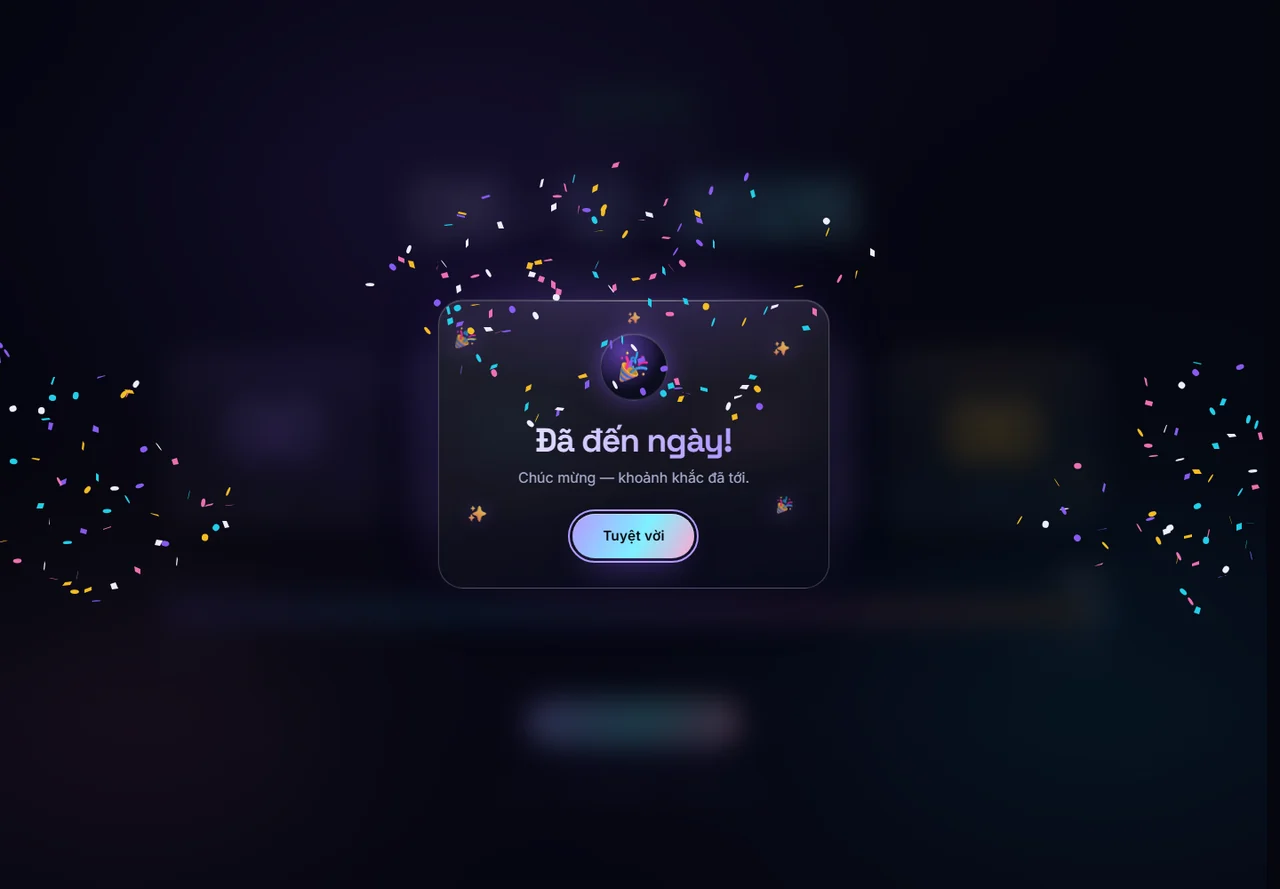
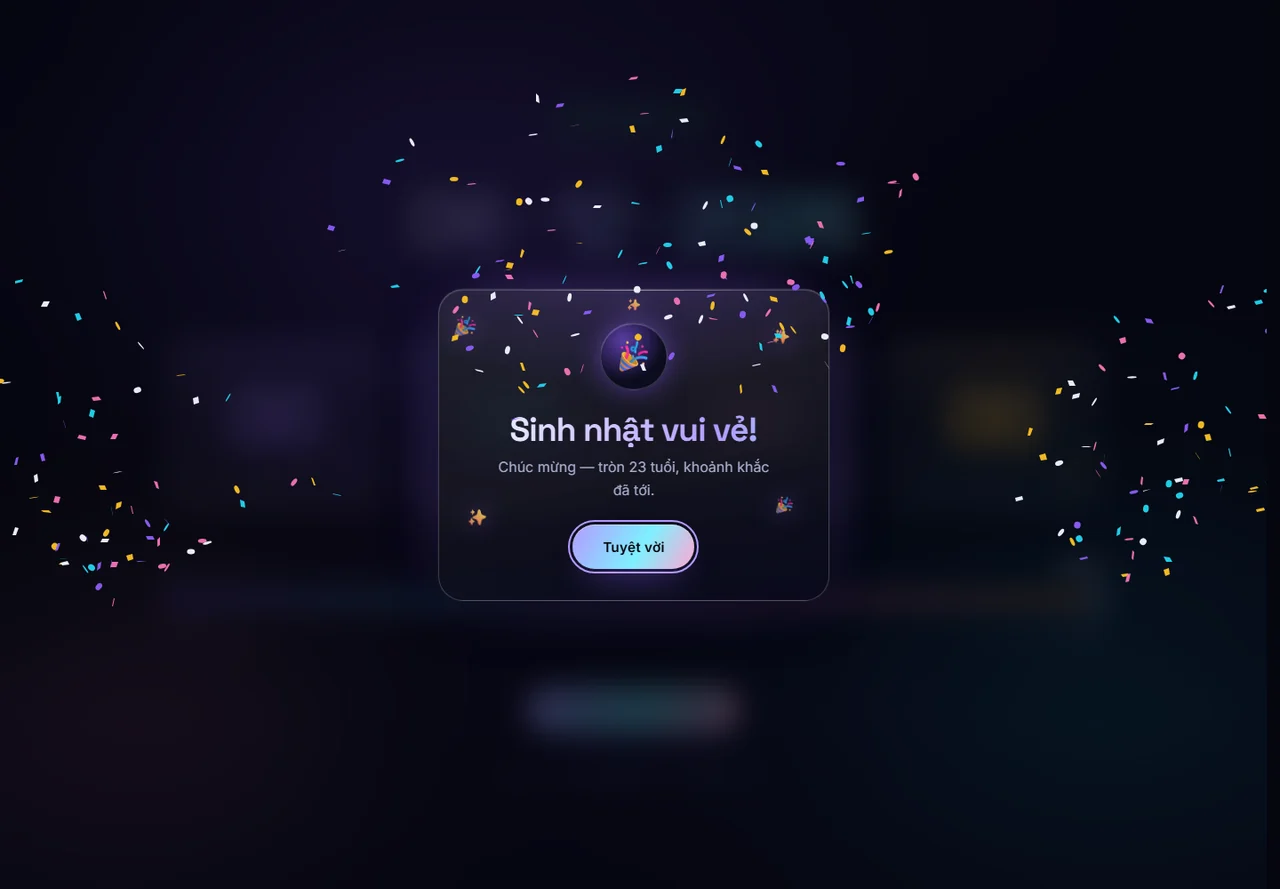
feat: keep birthday copy in the aurora redesign
- hero eyebrow: Đếm ngược sinh nhật; subtitle 06/12/2003 → 06/12/2026 · Tuổi 23
- expired badge and celebration dialog say happy birthday, 23 years old
- page title, description and OG tags updated for the birthday page
- lib exports BIRTH_ISO, BIRTH_LABEL, TARGET_SLASH_LABEL, BIRTHDAY_AGE (+tests, 27 total)

diff --git a/src/App.jsx b/src/App.jsx
@@ -4,7 +4,14 @@ import { Celebration } from './components/Celebration.jsx';
 import { CountdownGrid } from './components/CountdownGrid.jsx';
 import { ProgressRail } from './components/ProgressRail.jsx';
 import { useCountdown } from './hooks/useCountdown.js';
-import { TARGET_LABEL, TARGET_MS, formatRemaining } from './lib/countdown.js';
+import {
+  BIRTHDAY_AGE,
+  BIRTH_LABEL,
+  TARGET_LABEL,
+  TARGET_MS,
+  TARGET_SLASH_LABEL,
+  formatRemaining,
+} from './lib/countdown.js';
 import './App.css';
 
 export default function App() {
@@ -19,7 +26,7 @@ export default function App() {
   }, [isExpired]);
 
   const state = isExpired ? 'expired' : 'running';
-  const statusText = isExpired ? 'Đã đến ngày' : 'Đang đếm ngược';
+  const statusText = isExpired ? 'Sinh nhật vui vẻ' : 'Đang đếm ngược';
 
   return (
     <div className="app">
@@ -32,18 +39,20 @@ export default function App() {
             {statusText}
           </p>
 
-          <p className="hero__eyebrow">Đếm ngược đến</p>
+          <p className="hero__eyebrow">Đếm ngược sinh nhật</p>
 
           <h1 className="hero__title">{TARGET_LABEL}</h1>
 
           <p className="hero__sub">
             {isExpired
-              ? 'Khoảnh khắc đã tới — cảm ơn bạn đã đồng hành từng giây.'
-              : 'Từng giây trôi qua là một bước gần hơn tới khoảnh khắc ấy.'}
+              ? `Chúc mừng sinh nhật! Hôm nay tròn ${BIRTHDAY_AGE} tuổi.`
+              : `${BIRTH_LABEL} → ${TARGET_SLASH_LABEL} · Tuổi ${BIRTHDAY_AGE}`}
           </p>
 
           <p className="sr-only" role="status" aria-live="off">
-            {isExpired ? 'Đã đến ngày 06 tháng 12 năm 2026.' : `Còn lại ${formatRemaining(remaining)}.`}
+            {isExpired
+              ? `Đã đến ngày 06 tháng 12 năm 2026 — sinh nhật lần thứ ${BIRTHDAY_AGE}.`
+              : `Còn lại ${formatRemaining(remaining)}.`}
           </p>
         </header>
 

diff --git a/src/lib/countdown.test.js b/src/lib/countdown.test.js
@@ -17,9 +17,13 @@ import assert from 'node:assert/strict';
 import {
   TARGET_ISO,
   CAMPAIGN_START_ISO,
+  BIRTH_ISO,
   TARGET_MS,
   CAMPAIGN_START_MS,
   TARGET_LABEL,
+  BIRTH_LABEL,
+  TARGET_SLASH_LABEL,
+  BIRTHDAY_AGE,
   DAY_MS,
   HOUR_MS,
   MINUTE_MS,
@@ -300,6 +304,20 @@ test('formatDayMonthYear does not depend on the machine timezone', (t) => {
 
 test('TARGET_LABEL matches the target date', () => {
   assert.equal(TARGET_LABEL, '06 · 12 · 2026');
+});
+
+test('birthday copy matches the target date', () => {
+  assert.equal(BIRTH_LABEL, '06/12/2003');
+  assert.equal(TARGET_SLASH_LABEL, '06/12/2026');
+  assert.equal(BIRTHDAY_AGE, 23);
+  assert.equal(BIRTH_ISO, '2003-12-06T00:00:00+07:00');
+
+  // Formatted in the campaign timezone, so the day stays 06 (UTC would be 05).
+  assert.equal(formatDayMonthYear(Date.parse(BIRTH_ISO)), '06 · 12 · 2003');
+
+  const birth = new Date(BIRTH_ISO);
+  const target = new Date(TARGET_ISO);
+  assert.equal(target.getUTCFullYear() - birth.getUTCFullYear(), BIRTHDAY_AGE);
 });
 
 test('TARGET_ISO parses to the UTC instant 2026-12-05T17:00:00Z', () => {

diff --git a/index.html b/index.html
@@ -7,15 +7,15 @@
     <meta name="theme-color" content="#05060f" />
     <meta
       name="description"
-      content="Đếm ngược đến 06 · 12 · 2026 — từng ngày, từng giờ, từng khoảnh khắc."
+      content="Sinh nhật vui vẻ! Đếm ngược đến 06 · 12 · 2026 — tròn 23 tuổi."
     />
     <meta property="og:type" content="website" />
-    <meta property="og:title" content="Đếm ngược đến 06 · 12 · 2026" />
+    <meta property="og:title" content="Đếm ngược sinh nhật · 06 · 12 · 2026" />
     <meta
       property="og:description"
-      content="Từng giây trôi qua là một bước gần hơn tới khoảnh khắc ấy."
+      content="06/12/2003 → 06/12/2026 · Tuổi 23."
     />
-    <title>Đếm ngược đến 06 · 12 · 2026</title>
+    <title>Đếm ngược sinh nhật · 06 · 12 · 2026</title>
   </head>
   <body>
     <div id="root"></div>

diff --git a/src/components/Celebration.jsx b/src/components/Celebration.jsx
@@ -1,6 +1,7 @@
 import { useEffect, useRef } from 'react';
 import { AnimatePresence, motion, useReducedMotion } from 'motion/react';
 import confetti from 'canvas-confetti';
+import { BIRTHDAY_AGE } from '../lib/countdown.js';
 import './Celebration.css';
 
 const FLOATING_EMOJI = [
@@ -174,10 +175,10 @@ export function Celebration({ open, onDismiss }) {
               🎉
             </span>
             <h2 className="cel__title" id="cel-title">
-              Đã đến ngày!
+              Sinh nhật vui vẻ!
             </h2>
             <p className="cel__body" id="cel-body">
-              Chúc mừng — khoảnh khắc đã tới.
+              Chúc mừng — tròn {BIRTHDAY_AGE} tuổi, khoảnh khắc đã tới.
             </p>
             <button ref={dismissRef} type="button" className="cel__btn" onClick={dismiss}>
               Tuyệt vời

diff --git a/src/lib/countdown.js b/src/lib/countdown.js
@@ -13,6 +13,12 @@ export const CAMPAIGN_START_MS = Date.parse(CAMPAIGN_START_ISO);
 
 export const TARGET_LABEL = '06 · 12 · 2026';
 
+/** The birthday this page celebrates: 06/12/2003 → 06/12/2026. */
+export const BIRTH_ISO = '2003-12-06T00:00:00+07:00';
+export const BIRTH_LABEL = '06/12/2003';
+export const TARGET_SLASH_LABEL = '06/12/2026';
+export const BIRTHDAY_AGE = 23;
+
 export const DAY_MS = 86_400_000;
 export const HOUR_MS = 3_600_000;
 export const MINUTE_MS = 60_000;

diff --git a/README.md b/README.md
@@ -1,8 +1,8 @@
-# Aurora Countdown — đếm ngược đến 06 · 12 · 2026
+# Aurora Countdown — đếm ngược sinh nhật 06 · 12 · 2026
 
-Trang đếm ngược một màn hình, thiết kế lại theo hướng "space launch page": nền aurora
-chuyển động, thẻ số odometer bằng kính mờ, thanh tiến trình chiến dịch và màn ăn mừng
-confetti khi về đích.
+Trang đếm ngược một màn hình cho sinh nhật **06/12/2026** (từ 06/12/2003, tròn 23 tuổi),
+thiết kế theo hướng "space launch page": nền aurora chuyển động, thẻ số odometer bằng
+kính mờ, thanh tiến trình chiến dịch và màn ăn mừng confetti khi về đích.
 
 | Desktop | Mobile |
 | --- | --- |
@@ -134,7 +134,7 @@ Nền tối còn nội dung mất = CSS đã nạp nhưng React crash. Kiểm tr
 | Kiểm tra | Kết quả |
 | --- | --- |
 | `npm run lint` | 0 warning / 0 error |
-| `npm test` | 26/26 pass |
+| `npm test` | 27/27 pass |
 | `npm run build` | pass, 464 modules |
 | 1440×1000 / 834×1112 / 390×844 / 360×780 | không overflow ngang, không lỗi console |
 | Expired / reduced-motion | ảnh chụp đúng trạng thái, confetti bị tắt khi reduced |
